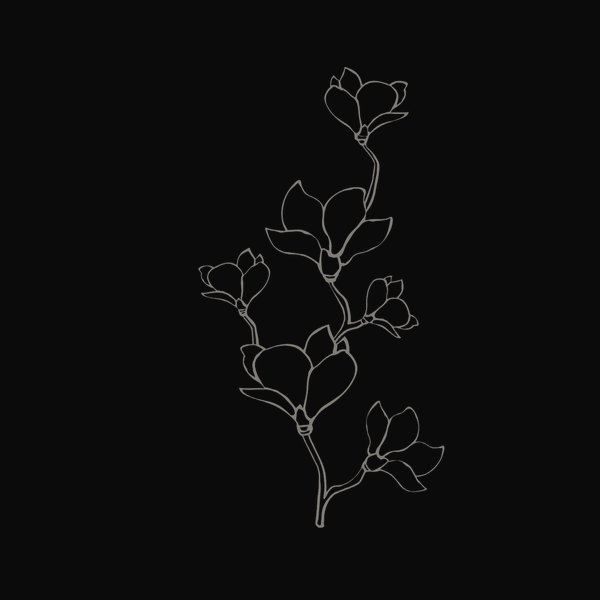
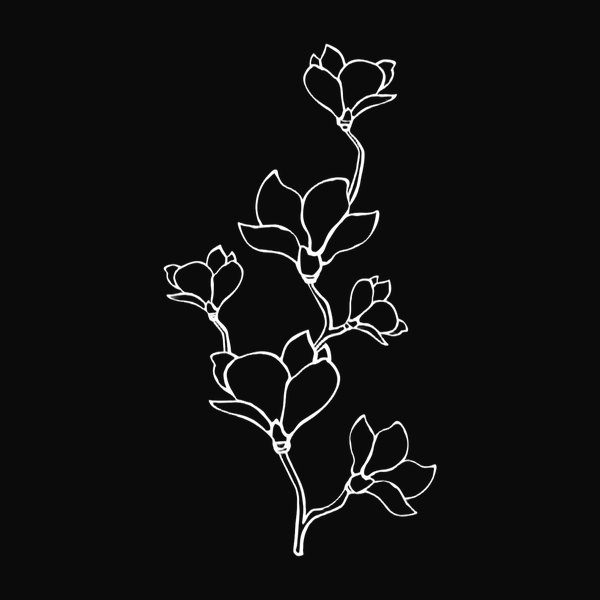
브랜드 이미지(로고·목련) 배경 없는 파일로 추가, 칼럼 꽃 그림 교체
Claude-Session: https://claude.ai/code/session_01Q6cD4q4ZvDRqmBnCQwHy6c

Changed region(s): [[0.27, 0.06, 0.75, 0.93], [0.48, 0.12, 0.51, 0.15]]

diff --git a/training.html b/training.html
@@ -33,7 +33,7 @@
 <link rel="preconnect" href="https://fonts.googleapis.com">
 <link rel="preconnect" href="https://fonts.gstatic.com" crossorigin>
 <link href="https://fonts.googleapis.com/css2?family=Noto+Sans+KR:wght@400;500;700;900&family=Noto+Serif+KR:wght@500;700;900&display=swap" rel="stylesheet">
-<link rel="stylesheet" href="app.css?v=202611100051">
+<link rel="stylesheet" href="app.css?v=202611100058">
 <noscript><style>#app{opacity:1;padding:24px;max-width:900px;margin:0 auto}</style></noscript>
 </head>
 <body>
@@ -44,6 +44,6 @@
 <h2>해랑경희 태권도에서 무엇을 가르치나요?</h2><ul><li>건강한 신체발달</li><li>강인한 정신력</li><li>원만한 사회성</li><li>자기 방어 역량</li></ul><h3>태권도 기술</h3><ul><li>품새</li><li>겨루기</li><li>격파·시범</li><li>태권호신술</li></ul><h3>인성 발달</h3><ul><li>정신건강</li><li>라이프스킬</li><li>사회성발달</li></ul><h3>체력·운동능력</h3><ul><li>운동기능발달</li><li>체력향상</li><li>건강생활습관</li></ul><h2>수련 프로그램 및 시간표</h2><h3>유치·초등부 오후 2:00 ~ 7:30</h3><ul><li>예절·인성교육과 태권웅변</li><li>품새·발차기·겨루기 기본기</li><li>줄넘기·학교체육·레크레이션</li></ul><h3>중고등·성인부 저녁 6:40 ~ 9:50</h3><ul><li>스트레칭과 태권도 기술</li><li>요일별 부위 근력 운동</li><li>도약 발차기와 익스트림 태권도</li></ul><h3>입시부 저녁 6:00 ~ 9:50</h3><ul><li>태권도학과 진학을 목표로 하는 반</li><li>태권도에 진심이고 진로를 태권도로 정하고 싶은 학생</li><li>대학 입시 실기 준비와 진로 상담</li></ul><h3>유치부 요일별 수업</h3><p>키성장 스트레칭, 체력단련</p><ul><li>월: 예절교육, 줄넘기, 태권웅변</li><li>화: 태권도, 생활근력 향상, 도구수업</li><li>수: 명상, 태권체조, 기초체력훈련</li><li>목: 태권도, 생활근력 향상, 도구수업</li><li>금: 학교체육, 레크레이션</li></ul><h3>초등부 요일별 수업</h3><p>키성장 스트레칭, 체력단련</p><ul><li>월: 인성교육, 줄넘기, 태권웅변</li><li>화: 태권도 기본동작, 품새, 발차기</li><li>수: 태권체조, 겨루기, 호신술</li><li>목: 태권도 기본동작, 품새, 발차기, (영어 태권도하는 날)</li><li>금: 학교체육, 레크레이션</li></ul><h3>중고등·성인부 요일별 수업</h3><p>스트레칭, 태권도 기술</p><ul><li>월: 척추기립근, 광배근, 이두근</li><li>화: 대흉근, 삼두근</li><li>수: 전신코어, 복근, 유산소</li><li>목: 어깨근, 전완근</li><li>금: 대퇴근, 비복근</li></ul><h2>띠 제도</h2><p>해랑경희 태권도장의 수련 프로그램은 운동 점진성의 원리에 따라 띠(Belt) 시스템을 적극 활용하고 있습니다.</p><h3>유급자 과정</h3><p>초등부 12개월 · 유치부 18개월</p><p>태권도의 입문반으로, 태권도를 수련하기 전 과목별 기초를 배우고 도장에서의 자신의 역할과 인성을 실천하는 단계입니다. 띠마다 1개월씩 수련합니다.</p><ul><li>흰띠</li><li>노란줄띠</li><li>노란띠</li><li>초록줄띠</li><li>초록띠</li><li>초록검은띠</li><li>보라띠</li><li>보라검은띠</li><li>파란띠</li><li>파란검은띠</li><li>주황띠</li><li>주황검은띠</li><li>분홍띠</li><li>밤띠</li><li>빨간띠</li><li>품띠</li></ul><h2>인성 교육</h2><p>운동을 잘하는 것은 당연하고, 외면과 내면이 균형 있게 성장하도록 지도합니다.</p><ul><li>초등부 - 매주 월요일 인성교육 · 태권웅변</li><li>유치부 - 매주 월요일 예절교육 · 태권웅변</li><li>다양한 활동 - 인성교육 활동지, 연휴 동안 친척·가족들에게 감사 인사하기, 부모님께 인사하기 등 생활 속에서 실천하는 활동을 합니다.</li><li>라이프 스킬 - 인성, 자기 조절</li><li>선범단 - 다른 사람에게 모범이 되고, 배운 것을 나누는 해랑경희의 문화</li></ul><h2>해랑경희 교육의 정수, 선범단(先範團)</h2><p>먼저 선(先) · 모범 범(範) · 모일 단(團).</p><p>다른 사람에게 모범이 되고, 태권도인으로서 실력과 인성을 인정받아 자신이 가진 지식으로 다른 사람들에게 선한 영향력을 줄 수 있다고 인정된 수련생들입니다.</p><h3>자격</h3><ul><li>다른 사람이 행복할 수 있도록 도움으로써 오는 행복을 느낄 수 있어야 함</li><li>실기능력이 우수해야 함</li><li>동료들로부터 인성적으로 인정되어야 함</li><li>역지사지를 잘 할 수 있어야 함</li></ul><h3>선발</h3><ul><li>실력, 인성, 평소 생활 태도가 모범적이라고 지도진에게 만장일치로 인정되어야 임명됩니다.</li></ul><h3>임명</h3><ul><li>자신의 이름이 새겨진 키링과 임명장</li><li>도복 왼팔에 붙이는 선범단 패치</li></ul><h3>좋은 점</h3><ul><li>지도진으로부터 다른 사람을 가르칠 수 있는 공식적인 권한을 받음</li><li>가르치기 위해 자신의 지식이 정확한지 점검하게 됨</li><li>사람의 다양성을 고려해 하나의 지식을 다양하게 설명하는 연습을 하게 됨</li><li>또래 간 지식 공유를 통해 강한 유대감 형성</li></ul><h2>해랑 기네스</h2><p>태권도 수련으로 길러진 몸의 성장을 기록으로 확인하는 해랑경희만의 측정 수업입니다.</p><ul><li>언제 - 매월 첫째 주 금요일 수업</li><li>누가 - 금요일 수업에 참여하는 제자</li><li>어떻게 - 3개월마다 한 종목을 정해 매달 기록하고, 지난 기록과 비교합니다.</li></ul><h2>분기별 성장 측정지</h2><p>3개월마다 해랑 기네스 기록과 사범님의 관찰을 한 장에 담아 학부모님께 보내드립니다.</p><ul><li>몸의 기초 (기네스 기록) - 튼튼한 체력이 모든 성장의 바탕이에요.</li><li>집중과 자기조절 (사범님 관찰) - 수업 내용을 받아들이는 학습 수용력을 길러요.</li><li>끈기와 꾸준함 (사범님 관찰 · 출석) - 끝까지 앉아 과제를 마칠 수 있어요.</li><li>자신감과 표현력 (사범님 관찰) - 나를 믿는 만큼 생각의 기준이 단단해져요.</li><li>배려와 리더십 (사범님 관찰) - 건강한 관계를 스스로 가려 사귀는 안목이 생겨요.</li></ul>
 </div></div>
 <script>window.START_PAGE = "curriculum";</script>
-<script src="app.js?v=202611100051"></script>
+<script src="app.js?v=202611100058"></script>
 </body>
 </html>

diff --git a/about.html b/about.html
@@ -33,7 +33,7 @@
 <link rel="preconnect" href="https://fonts.googleapis.com">
 <link rel="preconnect" href="https://fonts.gstatic.com" crossorigin>
 <link href="https://fonts.googleapis.com/css2?family=Noto+Sans+KR:wght@400;500;700;900&family=Noto+Serif+KR:wght@500;700;900&display=swap" rel="stylesheet">
-<link rel="stylesheet" href="app.css?v=202611100051">
+<link rel="stylesheet" href="app.css?v=202611100058">
 <noscript><style>#app{opacity:1;padding:24px;max-width:900px;margin:0 auto}</style></noscript>
 </head>
 <body>
@@ -44,6 +44,6 @@
 <h2>해랑경희 교육, 이 생각에서 시작됩니다</h2><p>수련생들이 태권도를 운동으로 매력을 느끼게 하려면 지도진들은 어떤 교육을 제공해야 하는가?</p><p>수련생들이 성숙한 사람으로 성장하게 도와주려면 지도진들은 어떤 교육을 제공해야 하는가?</p><p>해랑경희 태권도장의 지도진들은 &#x27;제대로 된 사람을 만났다는 분명한 증거는 함께 있을 때 변해 가는 내 모습이 자신의 마음에 드는 것&#x27;이라는 말에 공감합니다.</p><p>해랑경희를 만난 수련생들이 그 전과 후가 달라져 있기를, 성장할수록 신체적·정서적·사회적 건강에 깊이가 있는 사람이 되기를 희망합니다.</p><p>운동을 통한 신체적 발달을 도모할 뿐만이 아니라 전인교육을 위한 종목으로서 태권도를 교육하겠습니다.</p><h2>해랑경희의 약속</h2><p>2024 태권도를 통해 세상을 살아가는 지혜를 배울 수 있도록</p><p>2025 태권도를 통해 새로운 도전에 자신있는 삶을 살도록</p><p>2026 태권도를 통해 자신의 삶에 확신이 있는 삶을 살도록</p><h2>전문 지도진 소개</h2><p>태권도학을 전공하고 자격을 갖춘 전문 지도자들이 다양한 연령과 체력 수준에 맞춰 지도합니다.</p><h3>대표 사범 이아빈</h3><ul><li>경희대학교 태권도학과 학사</li><li>태권도 공인 6단</li><li>세계 태권도 평화 봉사 재단 해외 파견 단원 (교수법 발표회 1위)</li><li>서울특별시 대표 태권도 시범단 단원</li><li>세계 태권도 전문 트레이너 협회(WTPTA) 이사</li><li>대한 태권도 협회 격파 심판 자격</li><li>국제 태권도 사범 자격</li><li>전문·생활 스포츠 지도사 자격</li><li>헌병 특수임무대 태권도 조교</li></ul><h3>지도 사범 김병수</h3><ul><li>계명대학교 태권도학과 학사</li><li>태권도 공인 5단</li><li>경상북도 대표 태권도단 (전국체전 금메달)</li><li>생활 스포츠 지도사 자격</li><li>국제 태권도 사범 자격</li></ul><h3>코치 한채원</h3><ul><li>경희대학교 체육대학스포츠 코칭 아카데미 수료</li><li>생활스포츠지도사 자격</li><li>NACM CPT 자격</li><li>NASM CES 자격</li><li>NSCA Advanced SNC (영양코치) 자격</li><li>EBFA BTS 1 자격</li><li>EXSCIR rest flow (재활운동) 수료</li><li>KESTA MAT(근신경계 불기능 교정 테크닉) 수료</li><li>Movement assessment specialist</li></ul><h3>지도 선생님 박성남</h3><ul><li>라이프가드 안전요원 경력</li><li>유아교육, 웅변(스피치)교육 지도경력</li></ul><p>본 도장은 대한태권도협회 등록 도장입니다.</p><h2>보도자료</h2><ul><li><a href="https://m.besttimes.co.kr/14426" rel="noopener">해랑경희 태권도장, 2026 울산광역시 남구 우수 태권도장으로 선정</a> - 베스트타임즈 2026-08-26</li><li><a href="http://www.etonghapnews.co.kr/news/272412" rel="noopener">울산 남구 삼산동 해랑경희태권도장, 도장만의 특별한 태권도 문화가 진행되고 있는 곳</a> - e통합뉴스 2024-02-22</li><li><a href="https://www.antnews.org/news/246666" rel="noopener">“멋을 추구하나 자만하지 않고, 여유가 있으나 교만하지 않은 해랑인” 태권도에 진심! 해랑경희태권도장 이아빈 대표사범</a> - 앤트 뉴스 2023-10-12</li></ul><h2>함께하는 해랑경희</h2><ul><li>보민 무브먼트 스튜디오 - 전문적인 선수트레이닝 및 컨디셔닝</li><li>울산 중구 별별마당 - 2026 달빛라운지 홍보 릴스에 참여</li><li>울산 동구 타이탄 문현태권도 - 해랑경희 도장에서 매주 목요일 전문 격파 품새 수업</li><li>울산 중산동 타이탄 태권도 - 해랑경희 도장에서 매주 목요일 전문 격파 품새 수업</li><li>박종원무용스트릿댄스아카데미 - </li><li>짐키친 울산삼산점 - </li><li>유캔두잇 울산달동삼산점 - </li></ul>
 </div></div>
 <script>window.START_PAGE = "philosophy";</script>
-<script src="app.js?v=202611100051"></script>
+<script src="app.js?v=202611100058"></script>
 </body>
 </html>

diff --git a/columns/when-to-stop.html b/columns/when-to-stop.html
@@ -50,7 +50,7 @@
   .steps li{padding:16px 2px;border-top:1px solid var(--line);font-size:18px;font-weight:700;line-height:1.55}
   .steps li:last-child{border-bottom:1px solid var(--line)}
 
-  .fl{position:absolute;width:150px;opacity:.55;pointer-events:none;z-index:-1}
+  .fl{position:absolute;width:150px;opacity:.6;pointer-events:none;z-index:-1}
   .fl.r{right:-34px}
   .fl.l{left:-34px;transform:scaleX(-1)}
 
@@ -93,7 +93,7 @@
   <section class="scene">
     <p class="k">실제 입관 상담 때</p>
     <p class="t">학부모님께서<br>주신 질문입니다</p>
-    <img class="fl r" src="img/magnolia.png" alt="" style="top:30%">
+    <img class="fl r" src="../img/brand/magnolia-white.png" alt="" style="top:30%">
   </section>
 
   <section class="scene">
@@ -106,7 +106,7 @@
     <p class="k">태권도의 ‘태권’은 발차기와 주먹 기술,<br>‘도’는 태도를 말합니다</p>
     <p class="t big"><span class="mph or" data-mph><span class="m-a">기술</span><span class="m-b">태도</span></span> 먼저</p>
     <p class="t" style="margin-top:8px">연습하는 것이<br>필요하다고 보았습니다</p>
-    <img class="fl l" src="img/magnolia.png" alt="" style="top:46%">
+    <img class="fl l" src="../img/brand/magnolia-white.png" alt="" style="top:46%">
   </section>
 
   <section class="scene">
@@ -121,7 +121,7 @@
   <section class="scene">
     <p class="k">존중과 배려가 필요한 운동 환경이<br>처음엔 낯설었지만, 조금씩 적응해 나갔고</p>
     <p class="t">손부터 나가던 친구가<br>이제는 넘어진 동생에게<br><span class="mph gr" data-mph><span class="m-a">주먹</span><span class="m-b">돕는 손</span></span>을 내미는 제자로<br>성장하였습니다</p>
-    <img class="fl r" src="img/magnolia.png" alt="" style="top:52%">
+    <img class="fl r" src="../img/brand/magnolia-white.png" alt="" style="top:52%">
   </section>
 
   <section class="scene">
@@ -138,7 +138,7 @@
   <section class="scene">
     <p class="k">성장을 기다리는 일은<br>때로 시간이 걸립니다</p>
     <p class="t">그래서 학부모님과 지도자가<br><span class="or">함께 이해하고 기다리는</span><br>시간이 필요합니다</p>
-    <img class="fl l" src="img/magnolia.png" alt="" style="top:40%">
+    <img class="fl l" src="../img/brand/magnolia-white.png" alt="" style="top:40%">
   </section>
 
   <section class="scene">
@@ -156,7 +156,7 @@
   <section class="scene">
     <p class="t">우리 아이가 태권도장에<br>잘 적응할 수 있을지<br>고민되시나요?</p>
     <p class="s">아이의 성향과 지금의 고민을 먼저 듣고,<br><span class="or">체험 수업</span>을 안내해 드리겠습니다</p>
-    <img class="fl r" src="img/magnolia.png" alt="" style="top:44%">
+    <img class="fl r" src="../img/brand/magnolia-white.png" alt="" style="top:44%">
   </section>
 
   <section class="scene cta">

diff --git a/index.html b/index.html
@@ -33,7 +33,7 @@
 <link rel="preconnect" href="https://fonts.googleapis.com">
 <link rel="preconnect" href="https://fonts.gstatic.com" crossorigin>
 <link href="https://fonts.googleapis.com/css2?family=Noto+Sans+KR:wght@400;500;700;900&family=Noto+Serif+KR:wght@500;700;900&display=swap" rel="stylesheet">
-<link rel="stylesheet" href="app.css?v=202611100051">
+<link rel="stylesheet" href="app.css?v=202611100058">
 <noscript><style>#app{opacity:1;padding:24px;max-width:900px;margin:0 auto}</style></noscript>
 </head>
 <body>
@@ -44,6 +44,6 @@
 <p>안녕하십니까, 해랑경희 태권도장입니다.</p><p>태권도 수련을 통해 몸과 마음, 그리고 함께 어울리는 힘까지 건강하게 키우는 교육 기관입니다.</p><p>자녀분에게 땀 흘리며 성장하는 시간이 필요하다고 느끼신다면, 해랑경희가 함께하겠습니다.</p><p>멋을 추구하나 자만하지 않고 여유가 있으나 교만하지 않은 해랑인</p><h2>유치·초등부 오후 2:00 ~ 7:30</h2><ul><li>예절·인성교육과 태권웅변</li><li>품새·발차기·겨루기 기본기</li><li>줄넘기·학교체육·레크레이션</li></ul><h2>중고등·성인부 저녁 6:40 ~ 9:50</h2><ul><li>스트레칭과 태권도 기술</li><li>요일별 부위 근력 운동</li><li>도약 발차기와 익스트림 태권도</li></ul><h2>입시부 저녁 6:00 ~ 9:50</h2><ul><li>태권도학과 진학을 목표로 하는 반</li><li>태권도에 진심이고 진로를 태권도로 정하고 싶은 학생</li><li>대학 입시 실기 준비와 진로 상담</li></ul>
 </div></div>
 <script>window.START_PAGE = "";</script>
-<script src="app.js?v=202611100051"></script>
+<script src="app.js?v=202611100058"></script>
 </body>
 </html>

diff --git a/column.html b/column.html
@@ -33,7 +33,7 @@
 <link rel="preconnect" href="https://fonts.googleapis.com">
 <link rel="preconnect" href="https://fonts.gstatic.com" crossorigin>
 <link href="https://fonts.googleapis.com/css2?family=Noto+Sans+KR:wght@400;500;700;900&family=Noto+Serif+KR:wght@500;700;900&display=swap" rel="stylesheet">
-<link rel="stylesheet" href="app.css?v=202611100051">
+<link rel="stylesheet" href="app.css?v=202611100058">
 <noscript><style>#app{opacity:1;padding:24px;max-width:900px;margin:0 auto}</style></noscript>
 </head>
 <body>
@@ -44,6 +44,6 @@
 <h2>해랑경희 칼럼</h2><p>태권도와 교육, 그리고 제자들의 성장에 대한 해랑경희의 생각을 나눕니다.</p><ul><li><a href="columns/when-to-stop.html" rel="noopener">폭력적인 성향이 있는데 태권도 배워도 괜찮을까요?</a> - 주먹부터 나가던 친구가 동생에게 손을 내밀기까지</li></ul>
 </div></div>
 <script>window.START_PAGE = "column";</script>
-<script src="app.js?v=202611100051"></script>
+<script src="app.js?v=202611100058"></script>
 </body>
 </html>

diff --git a/news.html b/news.html
@@ -33,7 +33,7 @@
 <link rel="preconnect" href="https://fonts.googleapis.com">
 <link rel="preconnect" href="https://fonts.gstatic.com" crossorigin>
 <link href="https://fonts.googleapis.com/css2?family=Noto+Sans+KR:wght@400;500;700;900&family=Noto+Serif+KR:wght@500;700;900&display=swap" rel="stylesheet">
-<link rel="stylesheet" href="app.css?v=202611100051">
+<link rel="stylesheet" href="app.css?v=202611100058">
 <noscript><style>#app{opacity:1;padding:24px;max-width:900px;margin:0 auto}</style></noscript>
 </head>
 <body>
@@ -44,6 +44,6 @@
 <h2>오늘의 운동</h2><h2>해랑경희 일정</h2><ul><li>2026-11-07 공인단 심사 연습 10:30 ~ 12:00</li><li>2026-11-14 공인단 심사 오전 중 진행</li><li>2026-11-21 해랑경희데이</li></ul><h2>사진으로 보는 해랑경희</h2>
 </div></div>
 <script>window.START_PAGE = "today";</script>
-<script src="app.js?v=202611100051"></script>
+<script src="app.js?v=202611100058"></script>
 </body>
 </html>

diff --git a/contact.html b/contact.html
@@ -33,7 +33,7 @@
 <link rel="preconnect" href="https://fonts.googleapis.com">
 <link rel="preconnect" href="https://fonts.gstatic.com" crossorigin>
 <link href="https://fonts.googleapis.com/css2?family=Noto+Sans+KR:wght@400;500;700;900&family=Noto+Serif+KR:wght@500;700;900&display=swap" rel="stylesheet">
-<link rel="stylesheet" href="app.css?v=202611100051">
+<link rel="stylesheet" href="app.css?v=202611100058">
 <noscript><style>#app{opacity:1;padding:24px;max-width:900px;margin:0 auto}</style></noscript>
 </head>
 <body>
@@ -45,6 +45,6 @@
 주변 도로에 하시면 됩니다.</p><ul><li>월 13:00 - 22:00</li><li>화 13:00 - 22:00</li><li>수 13:00 - 22:00</li><li>목 13:00 - 22:00</li><li>금 13:00 - 21:00</li><li>토 정기휴무</li><li>일 정기휴무</li></ul>
 </div></div>
 <script>window.START_PAGE = "contact";</script>
-<script src="app.js?v=202611100051"></script>
+<script src="app.js?v=202611100058"></script>
 </body>
 </html>

diff --git a/img/brand/README.md b/img/brand/README.md
@@ -1,0 +1,11 @@
+# 해랑경희 브랜드 이미지
+
+모두 배경 없는(투명) PNG입니다. 로고는 웬만하면 배경 없이 씁니다.
+
+| 파일 | 내용 |
+|---|---|
+| lion-red.png | 사자 심볼 (빨강) |
+| logo-slogan.png | 사자 + 해랑경희 태권도장 + 슬로건 (가로형) |
+| logo-team.png | 사자 + 해랑경희 태권도장 + HAERANG TAEKWONDO TEAM (가로형) |
+| wordmark-white.png / wordmark-black.png | 해랑경희 TAEKWONDO TEAM 글자 로고 (흰색 / 검정) |
+| magnolia-white.png / magnolia-black.png | 목련 선화. 꽃은 흰색 또는 검정으로만 씁니다 |
